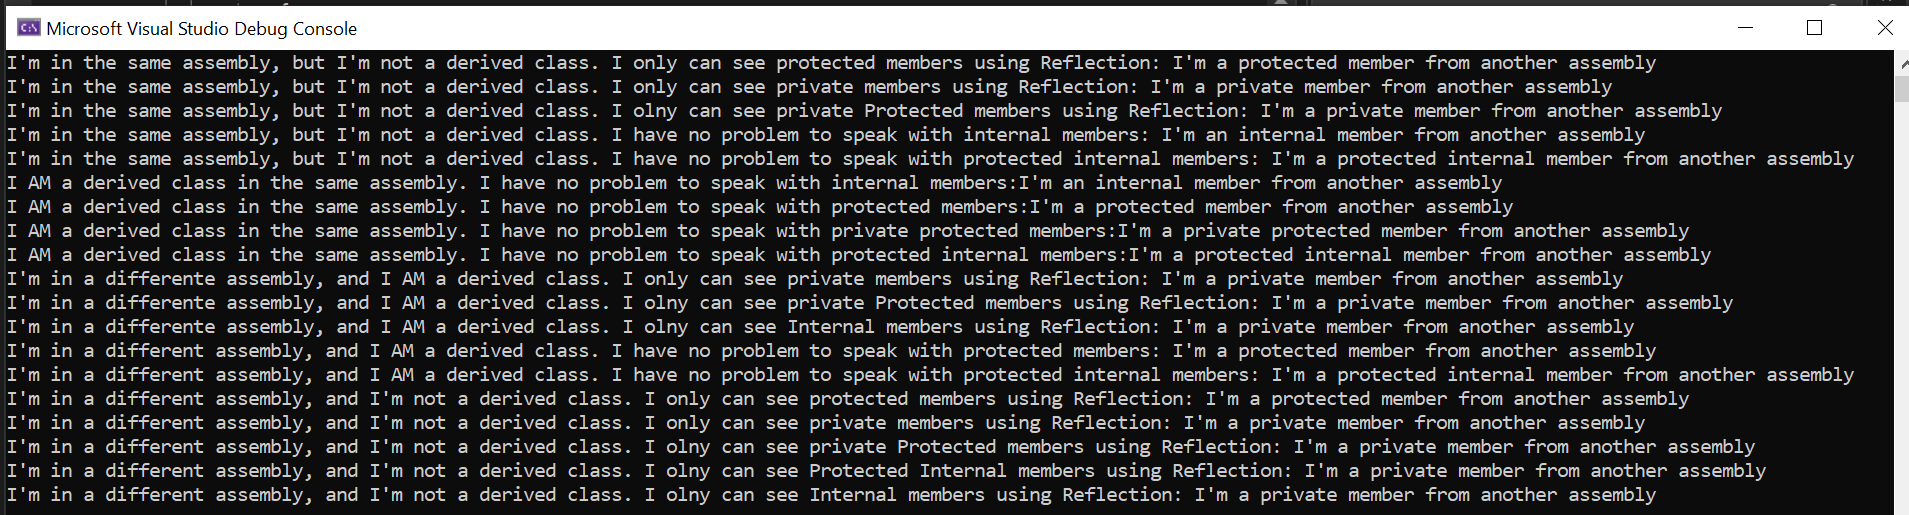
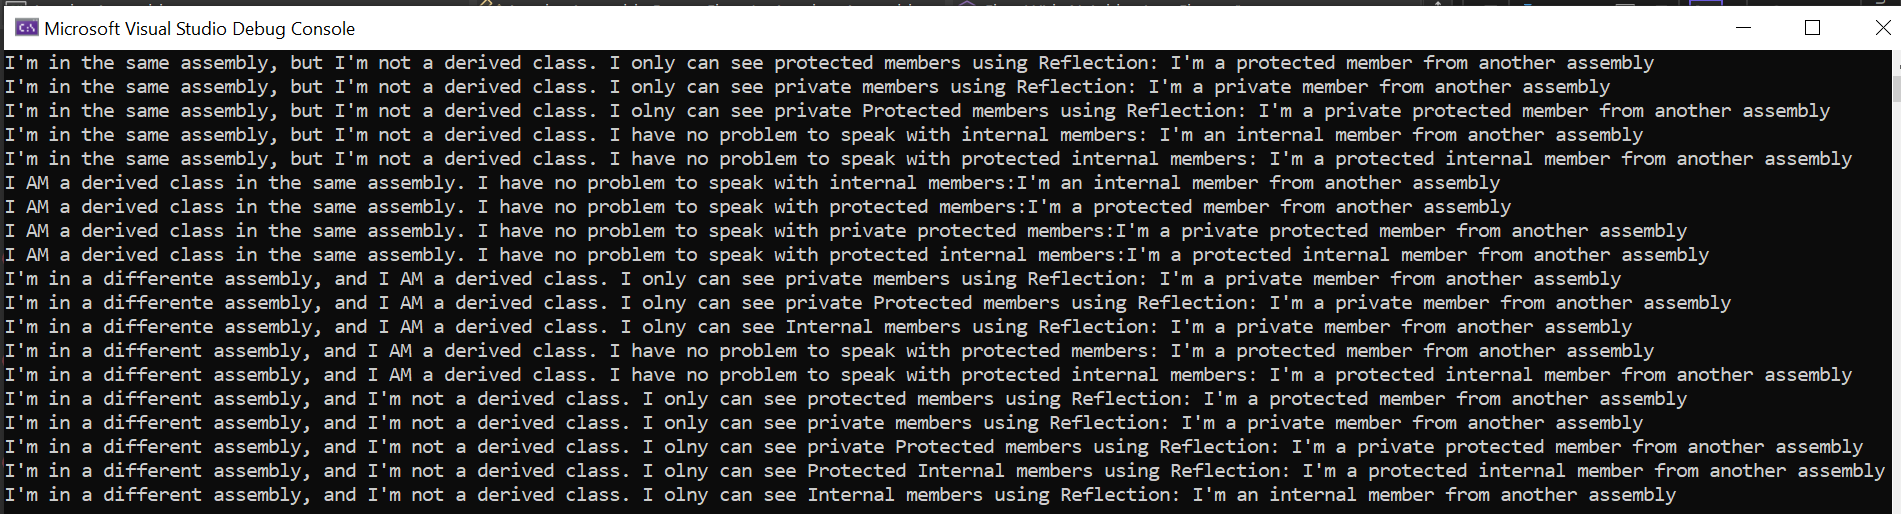
version 1.0.1 correções

Changed region(s): [[0.0, 0.0, 1.0, 1.0], [0.9621, 0.0311, 0.9932, 0.0623], [0.4966, 0.0, 0.5276, 0.0311]]

diff --git a/Acess Modifiers Demo/Acess Modifiers Demo/Some_class.cs b/Acess Modifiers Demo/Acess Modifiers Demo/Some_class.cs
@@ -31,15 +31,15 @@ namespace Acess_Modifiers_Demo
                 Console.WriteLine("I'm in a different assembly, and I'm not a derived class. I only can see private members using Reflection: " + valor);
 
                 FieldInfo campoPrivateProtected = tipo.GetField("Private_Protected_Member_In_Another_Assembly", BindingFlags.NonPublic | BindingFlags.Instance);
-                valor = (string)campoPrivate.GetValue(neighbor_parent);
+                valor = (string)campoPrivateProtected.GetValue(neighbor_parent);
                 Console.WriteLine("I'm in a different assembly, and I'm not a derived class. I olny can see private Protected members using Reflection: " + valor);
 
                 FieldInfo campoProtectedInternal = tipo.GetField("Protected_Internal_Member_In_Another_Assembly", BindingFlags.NonPublic | BindingFlags.Instance);
-                valor = (string)campoPrivate.GetValue(neighbor_parent);
+                valor = (string)campoProtectedInternal.GetValue(neighbor_parent);
                 Console.WriteLine("I'm in a different assembly, and I'm not a derived class. I olny can see Protected Internal members using Reflection: " + valor);
 
                 FieldInfo campoInternal = tipo.GetField("Internal_Member_In_Another_Assembly", BindingFlags.NonPublic | BindingFlags.Instance);
-                valor = (string)campoPrivate.GetValue(neighbor_parent);
+                valor = (string)campoInternal.GetValue(neighbor_parent);
                 Console.WriteLine("I'm in a different assembly, and I'm not a derived class. I olny can see Internal members using Reflection: " + valor);
 
 

diff --git a/Acess Modifiers Demo/AnotherAssembly/Some_Class_In_Another_Assembly.cs b/Acess Modifiers Demo/AnotherAssembly/Some_Class_In_Another_Assembly.cs
@@ -27,7 +27,7 @@ namespace AnotherAssembly
                 Console.WriteLine("I'm in the same assembly, but I'm not a derived class. I only can see private members using Reflection: " + valor);
 
                 FieldInfo campoPrivateProtected = tipo.GetField("Private_Protected_Member_In_Another_Assembly", BindingFlags.NonPublic | BindingFlags.Instance);
-                valor = (string)campoPrivate.GetValue(neighbor_parent);
+                valor = (string)campoPrivateProtected.GetValue(neighbor_parent);
                 Console.WriteLine("I'm in the same assembly, but I'm not a derived class. I olny can see private Protected members using Reflection: " + valor);
             }
             catch (Exception e)

diff --git a/README.md b/README.md
@@ -15,6 +15,20 @@ Você pode testar o projeto usando o [[**.NET Fiddle**](https://dotnetfiddle.net
 •  [**SomeClass**](https://www.bing.com/search?form=SKPBOT&q=SomeClass): Classe independente que também tenta acessar os membros da classe `Parent`.
 
 
+## Modificadores de Acesso
+
+•  [**public**](https://www.bing.com/search?form=SKPBOT&q=public): Acessível de qualquer lugar.
+
+•  [**private**](https://www.bing.com/search?form=SKPBOT&q=private): Acessível apenas dentro da própria classe.
+
+•  [**protected**](https://www.bing.com/search?form=SKPBOT&q=protected): Acessível dentro da própria classe e por classes derivadas (independente do assembly).
+
+•  [**internal**](https://www.bing.com/search?form=SKPBOT&q=internal): Acessível dentro do mesmo assembly.
+
+•  [**protected internal**](https://www.bing.com/search?form=SKPBOT&q=protected%20internal): Acessível dentro do mesmo assembly e por classes derivadas em outro assembly.
+
+•  [**private protected**](https://www.bing.com/search?form=SKPBOT&q=private%20protected): Acessível apenas dentro da própria classe ou por classes derivadas no mesmo assembly.
+
 ## Imagem do Resultado
 
 ![alt text](https://github.com/elizeubh2006/Acess-Modifiers-Demo/blob/master/ResultadoAccessModifiersDemo.PNG?raw=true)
